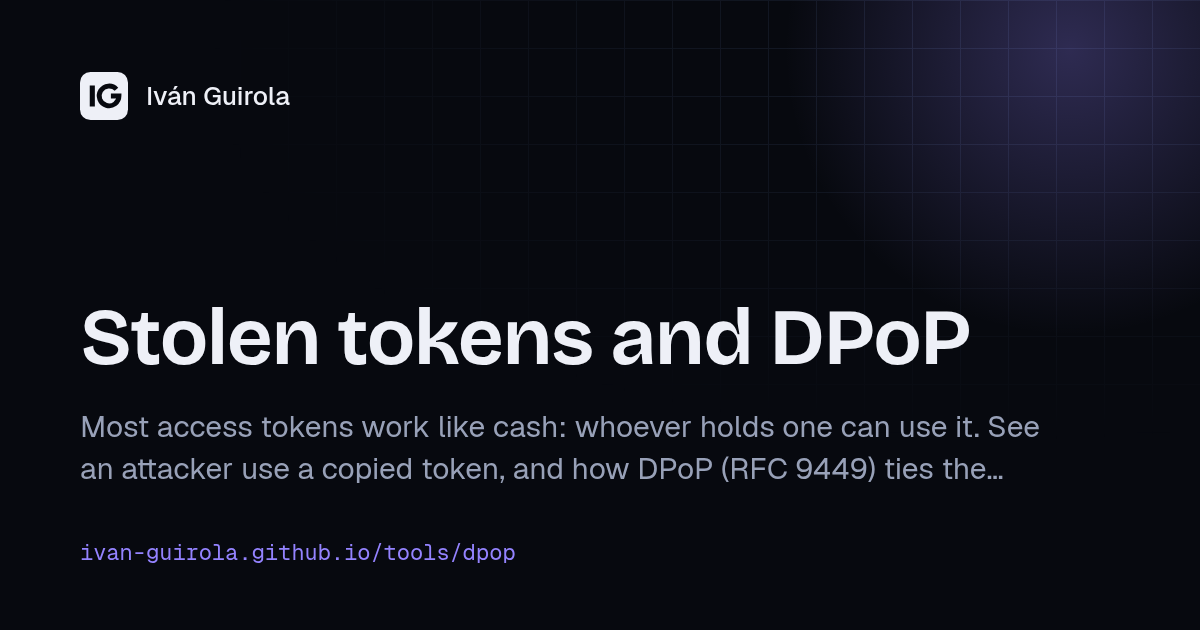
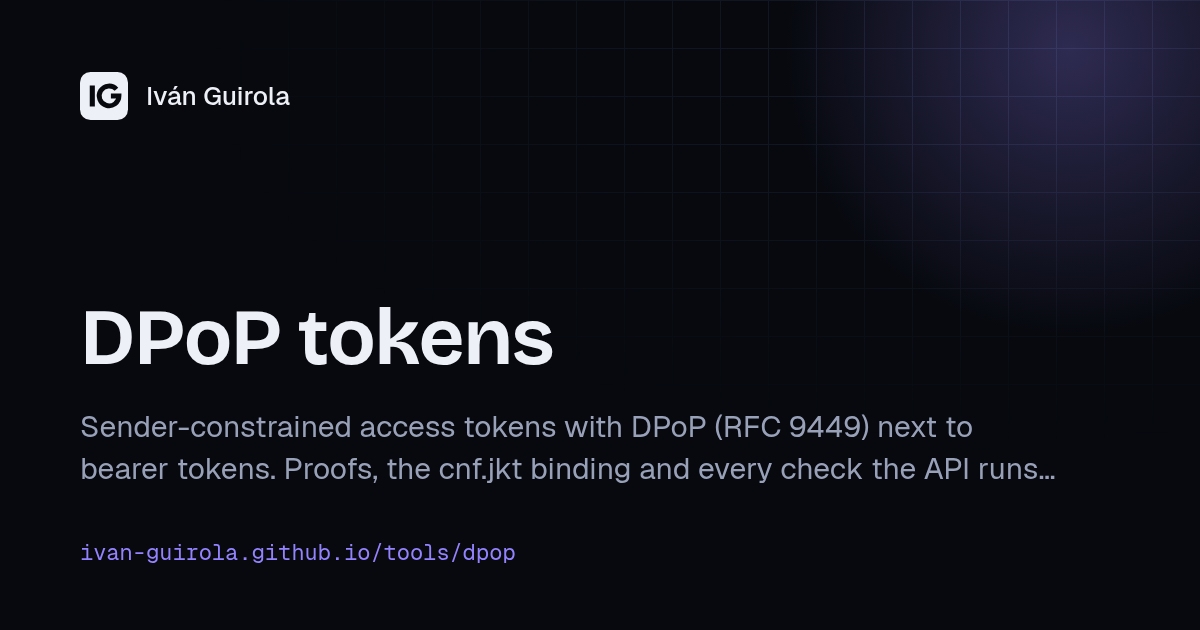
Rename the RAR and DPoP tools

Changed region(s): [[0.0617, 0.4825, 0.8325, 0.6032], [0.0617, 0.7238, 0.8633, 0.7841], [0.0617, 0.6635, 0.8633, 0.6937]]

diff --git a/src/styles/global.css b/src/styles/global.css
@@ -3083,7 +3083,7 @@ li[data-state='error'] .sv-name {
   color: var(--warn);
 }
 
-/* Exact permissions with RAR */
+/* RAR demo */
 .rx-controls {
   display: flex;
   flex-wrap: wrap;
@@ -3375,7 +3375,7 @@ h3.rx-payload {
   border-color: var(--warn);
 }
 
-/* Stolen tokens and DPoP */
+/* DPoP tokens */
 .dp-key {
   display: grid;
   gap: 0.2rem;

diff --git a/src/content/projects/rar-demo.md b/src/content/projects/rar-demo.md
@@ -1,6 +1,6 @@
 ---
-title: Exact permissions with RAR
-summary: An app asks for permission to pay 45 EUR, and an AI agent asks to book one flight. Compare a plain OAuth scope with rich authorization requests and see what the token allows.
+title: RAR demo
+summary: Rich authorization requests (RFC 9396) next to a plain OAuth scope, for a payment and for an AI agent booking a flight. The API checks every field of the call against authorization_details.
 category: oauth
 tags: [OAuth 2.0, RAR, FAPI 2.0, AI agents, TypeScript]
 date: 2026-11-25

diff --git a/src/content/projects/dpop-tokens.md b/src/content/projects/dpop-tokens.md
@@ -1,6 +1,6 @@
 ---
-title: Stolen tokens and DPoP
-summary: Most access tokens work like cash, and whoever copies one can use it. See an attacker try, and how DPoP ties the token to a key that never leaves the app.
+title: DPoP tokens
+summary: Sender-constrained access tokens with DPoP (RFC 9449) next to bearer tokens. Proofs, the cnf.jkt binding and every check the API runs, against four attacks with a stolen token.
 category: oauth
 tags: [OAuth 2.0, DPoP, FAPI 2.0, JWT, TypeScript]
 date: 2026-11-25
